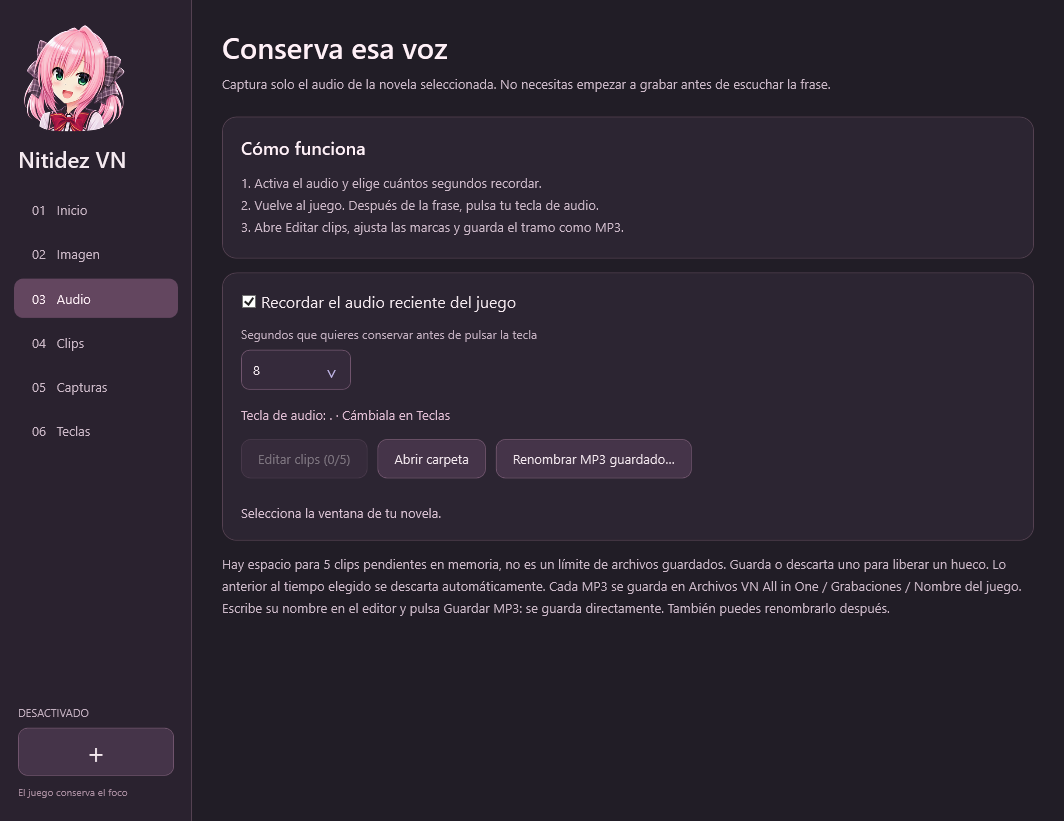
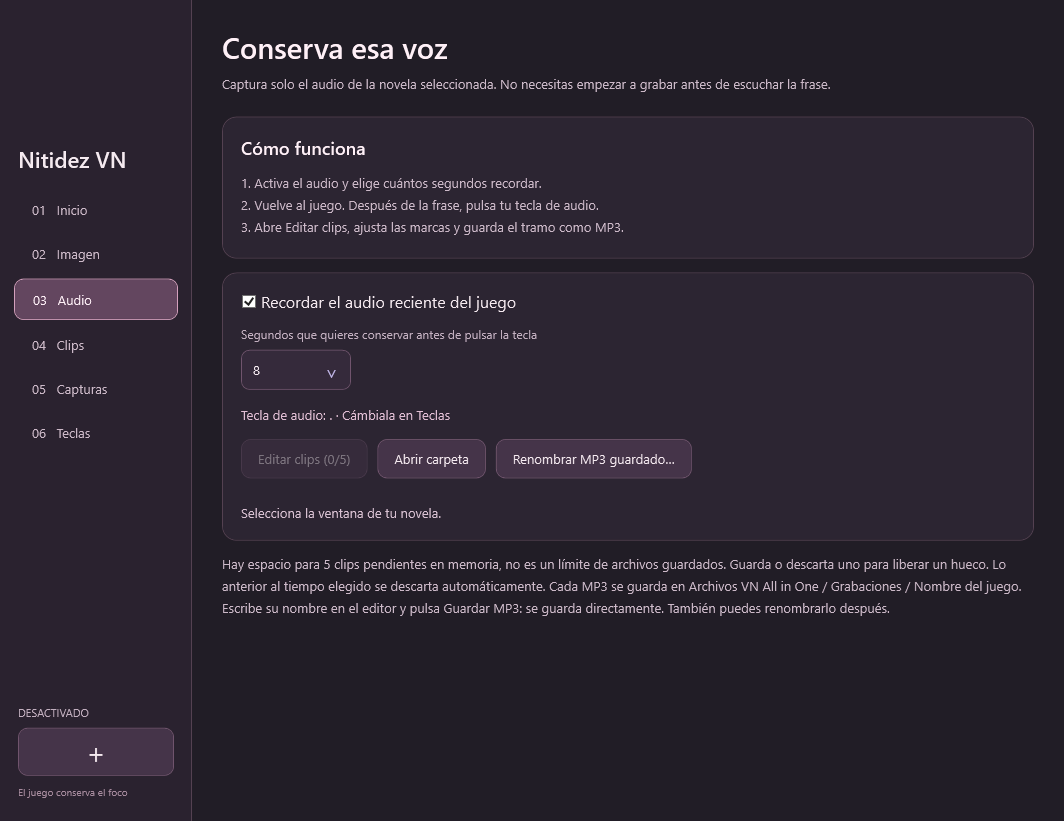
feat(editors): organize trimming and export controls for v4.4
Group audio and clip editing into three steps: select and preview, adjust the range, then name and save. Keep export actions in a dedicated sidebar, separate discard actions, and show the current playback position. Retain direct MP3 saving and per-game folders.

diff --git a/Interfaz.xaml b/Interfaz.xaml
@@ -72,7 +72,7 @@
    <TextBlock Text="Escenas para volver a ver" Style="{StaticResource Title}"/><TextBlock Text="Graba la novela con su audio y con el filtro que tengas al iniciar. Otras ventanas y la caja de Luna no se incluyen." Style="{StaticResource Help}"/>
    <Border Style="{StaticResource Card}"><StackPanel><TextBlock Text="Antes de grabar" Style="{StaticResource Subhead}"/><TextBlock Text="Espera a Captura lista después de conectar el juego. Inicia con tu tecla de clip y termina con la tecla de detener. También puedes usar el botón de abajo." Style="{StaticResource Help}"/><Grid><Grid.ColumnDefinitions><ColumnDefinition Width="*"/><ColumnDefinition Width="14"/><ColumnDefinition Width="*"/></Grid.ColumnDefinitions><StackPanel><TextBlock Text="Resolución máxima" Style="{StaticResource Label}"/><ComboBox x:Name="SceneResolution" AutomationProperties.Name="Resolución máxima del clip"/></StackPanel><StackPanel Grid.Column="2"><TextBlock Text="Fotogramas por segundo" Style="{StaticResource Label}"/><ComboBox x:Name="SceneFps" AutomationProperties.Name="Fotogramas por segundo del MP4"/></StackPanel></Grid><Button x:Name="SceneRecord" Content="Grabar MP4 con filtro" HorizontalAlignment="Left" Margin="0,20,0,0"/><TextBlock x:Name="SceneKeys" TextWrapping="Wrap" Foreground="#E1BED4" Margin="0,16,0,0"/><TextBlock x:Name="SceneStatus" TextWrapping="Wrap" Margin="0,12,0,0" Foreground="#D8C1D2"/></StackPanel></Border>
    <Border Style="{StaticResource Card}"><StackPanel><TextBlock Text="Revisa y recorta" Style="{StaticResource Subhead}"/><TextBlock Text="Abre un MP4, busca el momento, marca inicio y final, escribe el nombre, revisa con ▶ y guarda el recorte. El original se conserva. Si no te gusta un clip, puedes enviarlo a la Papelera desde el editor." Style="{StaticResource Help}"/><WrapPanel><Button x:Name="SceneEdit" Content="Abrir editor de clip…" Margin="0,0,10,10"/><Button x:Name="VideoFolder" Content="Abrir carpeta" Margin="0,0,10,10"/><Button x:Name="SceneRename" Content="Renombrar MP4…" Margin="0,0,0,10"/></WrapPanel></StackPanel></Border>
-   <TextBlock Text="Se guarda la imagen con el filtro, sin reducir la calidad para cumplir un peso. Algunos clips pueden superar 30 MB. Usa Original y 60 FPS para conservar detalle y movimiento. Los MP4 se organizan en Archivos VN All in One / Videos / Nombre del juego. Usa Renombrar MP4 para cambiar un nombre guardado." Style="{StaticResource Help}"/>
+   <TextBlock Text="Se guarda un MP4 compatible, con el filtro aplicado y sin límite de peso. La captura empieza al pulsar; el archivo se prepara en segundo plano. Usa 60 FPS para escenas con movimiento. Los MP4 se organizan en Archivos VN All in One / Videos / Nombre del juego. Usa Renombrar MP4 para cambiar un nombre guardado." Style="{StaticResource Help}"/>
   </StackPanel></TabItem>
   <TabItem Header="05   Capturas"><StackPanel><TextBlock Text="Guarda el instante" Style="{StaticResource Title}"/><TextBlock Text="Toma una imagen PNG de la novela con tu nitidez y color actuales. La captura mantiene la proporción del juego y no incluye los controles de Nitidez." Style="{StaticResource Help}"/><Border Style="{StaticResource Card}"><StackPanel><TextBlock Text="Una tecla, una imagen" Style="{StaticResource Subhead}"/><TextBlock Text="Conecta el juego en Inicio y espera a Captura lista. Al jugar, pulsa la tecla de captura; el PNG se guarda después de tomar la imagen, sin interrumpir la partida. También puedes usar este botón." Style="{StaticResource Help}"/><WrapPanel><Button x:Name="SceneScreenshot" Content="Tomar captura PNG" Margin="0,0,10,10"/><Button x:Name="ScreenshotFolder" Content="Abrir carpeta" Margin="0,0,0,10"/></WrapPanel><TextBlock x:Name="ScreenshotKeys" TextWrapping="Wrap" Foreground="#E1BED4" Margin="0,16,0,0"/><TextBlock x:Name="ScreenshotStatus" TextWrapping="Wrap" Margin="0,12,0,0" Foreground="#D8C1D2"/></StackPanel></Border><TextBlock Text="Los PNG se organizan en Archivos VN All in One / Capturas / Nombre del juego, con nombres como Wagamama_01.png y Wagamama_02.png. Las imágenes conservan su resolución original. El cursor de Windows no se incluye; un cursor dibujado por el propio juego puede aparecer." Style="{StaticResource Help}"/></StackPanel></TabItem>
   <TabItem Header="06   Teclas"><StackPanel><TextBlock Text="Tus propios atajos" Style="{StaticResource Title}"/><TextBlock Text="Haz clic en un campo y pulsa la tecla o combinación que quieras, por ejemplo Ctrl + F6. Puedes usar Ctrl, Alt o Shift. Las combinaciones repetidas se rechazan." Style="{StaticResource Help}"/>

diff --git a/SceneControls.cs b/SceneControls.cs
@@ -235,6 +235,7 @@ sealed class SceneEditor : Window {
     readonly MediaElement media = new MediaElement { LoadedBehavior = MediaState.Manual,
         UnloadedBehavior = MediaState.Close, ScrubbingEnabled = true, Stretch = Stretch.Uniform };
     readonly Slider position = new Slider(), start = new Slider(), end = new Slider();
+    readonly TextBlock positionTime=new TextBlock{Margin=new Thickness(0,0,0,10)};
     readonly TextBlock trimInfo = new TextBlock(), status = new TextBlock { TextWrapping = TextWrapping.Wrap };
     readonly Button play = new Button { Content = "▶", ToolTip = "Reproducir tramo", FontSize = 18 },
         stop = new Button { Content = "■", ToolTip = "Detener", FontSize = 18 },
@@ -253,28 +254,20 @@ sealed class SceneEditor : Window {
     public SceneEditor(Window owner, ResourceDictionary style, string source,string game=null) {
         Owner = owner; this.source = source; Resources.MergedDictionaries.Add(style);
         outputFolder=CaptureFiles.Inside(source,SceneFiles.Videos)?Path.GetDirectoryName(source):CaptureFiles.Folder("Videos",game??"Otros");
-        Title = "Nitidez VN · Recortar clip"; Width = 760;
-        Height = Math.Min(720, SystemParameters.WorkArea.Height - 25);
-        MinWidth = 520; MinHeight = 460; WindowStartupLocation = WindowStartupLocation.CenterOwner;
+        Title = "Nitidez VN · Editar clip"; Width = Math.Min(1120,SystemParameters.WorkArea.Width-30);
+        Height = Math.Min(860, SystemParameters.WorkArea.Height - 25);
+        MinWidth = 940; MinHeight = 680; WindowStartupLocation = WindowStartupLocation.CenterOwner;
         Background = new SolidColorBrush(Color.FromRgb(33,29,38)); Foreground = Brushes.White;
-        var root = new DockPanel { Margin = new Thickness(18) };
-        Content = root;
-        var title = new TextBlock { Text = Path.GetFileName(source), FontSize = 17, Margin = new Thickness(0, 0, 0, 8) };
-        DockPanel.SetDock(title, Dock.Top); root.Children.Add(title);
-        var controls = new StackPanel();
-        DockPanel.SetDock(controls, Dock.Bottom); root.Children.Add(controls);
-        controls.Children.Add(new TextBlock { Text = "Posición de vista previa", Margin = new Thickness(0, 8, 0, 0) });
-        controls.Children.Add(position);
-        controls.Children.Add(trimInfo);
-        controls.Children.Add(new TextBlock { Text = "Inicio del recorte" }); controls.Children.Add(start);
-        controls.Children.Add(new TextBlock { Text = "Final del recorte" }); controls.Children.Add(end);
-        controls.Children.Add(new TextBlock{Text="Nombre del clip que vas a guardar (sin .mp4)",Margin=new Thickness(0,8,0,0)});
-        fileName.Text="Recorte_"+DateTime.Now.ToString("yyyy-MM-dd_HH-mm-ss");controls.Children.Add(fileName);
-        var actions = new WrapPanel { Margin = new Thickness(0, 8, 0, 8) };
-        foreach (var button in new[] { play, stop, markStart, markEnd, save, recycle, folderButton }) { button.Margin = new Thickness(0, 0, 8, 4); actions.Children.Add(button); }
-        controls.Children.Add(actions); controls.Children.Add(status);
-        root.Children.Add(new Border { Background = Brushes.Black, Child = media });
-
+        StackPanel main,side;EditorLayout.Shell(this,"Editar clip",Path.GetFileName(source),out main,out side);
+        var preview=EditorLayout.Card(main,"1. Busca el momento");preview.Children.Add(new Border{Background=Brushes.Black,Height=200,Child=media,CornerRadius=new CornerRadius(6),Margin=new Thickness(0,0,0,12)});
+        preview.Children.Add(EditorLayout.Note("Mueve la barra para buscar el inicio o el final de la escena."));preview.Children.Add(position);preview.Children.Add(positionTime);
+        play.Content="▶ Ver selección";stop.Content="■ Detener";EditorLayout.Buttons(preview,play,stop);
+        var trim=EditorLayout.Card(main,"2. Elige qué conservar");
+        EditorLayout.Range(trim,new TextBlock{Text="Inicio"},start,new TextBlock{Text="Final"},end,markStart,markEnd);trimInfo.Margin=new Thickness(0,12,0,0);trimInfo.TextWrapping=TextWrapping.Wrap;trim.Children.Add(trimInfo);
+        var output=EditorLayout.Card(side,"3. Guarda el recorte");output.Children.Add(EditorLayout.Note("Nombre del nuevo archivo, sin .mp4. El clip original se conserva."));fileName.Text="Recorte_"+DateTime.Now.ToString("yyyy-MM-dd_HH-mm-ss");output.Children.Add(fileName);EditorLayout.SaveButton(save);output.Children.Add(save);folderButton.Margin=new Thickness(0,0,0,14);output.Children.Add(folderButton);output.Children.Add(EditorLayout.Note("Se guarda en la carpeta del juego, sin límite de peso."));
+        var message=EditorLayout.Card(side,"Estado");message.Children.Add(status);
+        recycle.Content="Enviar original a la Papelera";recycle.Margin=new Thickness(0,0,0,10);side.Children.Add(recycle);
+        side.Children.Add(EditorLayout.Note("Esta opción retira el clip que abriste. Guardar un recorte crea otro archivo."));
         timer = new DispatcherTimer { Interval = TimeSpan.FromMilliseconds(40) };
         timer.Tick += delegate {
             if (media.Position.TotalSeconds >= end.Value) { Pause(); Seek(end.Value); }
@@ -297,7 +290,7 @@ sealed class SceneEditor : Window {
             ready = false; Pause(); status.Text = "No se pudo reproducir el clip: " + e.ErrorException.Message; UpdateControls();
         };
         media.MediaEnded += delegate { Pause(); Seek(end.Value); };
-        position.ValueChanged += delegate { if (ready && !updating) { Pause(); media.Position = TimeSpan.FromSeconds(position.Value); } };
+        position.ValueChanged += delegate { if (ready && !updating) { Pause(); media.Position = TimeSpan.FromSeconds(position.Value);positionTime.Text=String.Format("Posición {0:F2} s / {1:F2} s",position.Value,end.Maximum); } };
         start.ValueChanged += delegate { Adjust(true); };
         end.ValueChanged += delegate { Adjust(false); };
         play.Click += delegate { if (playing) Pause(); else { Seek(start.Value); media.Play(); playing = true; timer.Start(); } };
@@ -329,7 +322,7 @@ sealed class SceneEditor : Window {
     }
 
     void SetPosition(double seconds) {
-        updating = true; position.Value = seconds; updating = false;
+        updating = true; position.Value = seconds; updating = false;positionTime.Text=String.Format("Posición {0:F2} s / {1:F2} s",seconds,end.Maximum);
     }
     void Seek(double seconds) { if (ready) { media.Position = TimeSpan.FromSeconds(seconds); SetPosition(seconds); } }
     void Pause() { timer.Stop(); media.Pause(); playing = false; }

diff --git a/AudioClips.cs b/AudioClips.cs
@@ -221,26 +221,21 @@ sealed class ClipEditor : Window {
     public ClipEditor(Window owner, ResourceDictionary style, ObservableCollection<AudioClip> clips) {
         Owner = owner; this.clips = clips;
         Resources.MergedDictionaries.Add(style);
-        Title = "Nitidez VN · Clips de audio"; Width = 740; MinWidth = 610; SizeToContent = SizeToContent.Height;
+        Title = "Nitidez VN · Editar audio"; Width = Math.Min(1060,SystemParameters.WorkArea.Width-30); Height=Math.Min(820,SystemParameters.WorkArea.Height-30);MinWidth = 900;MinHeight=620;
         ResizeMode = ResizeMode.CanResize; WindowStartupLocation = WindowStartupLocation.CenterOwner;
         Background = new SolidColorBrush(Color.FromRgb(33,29,38)); Foreground = Brushes.White;
-        var root = new StackPanel { Margin = new Thickness(22) };
-        Content = root;
-        root.Children.Add(new TextBlock { Text = "Recorta tu clip", FontSize = 24, Margin = new Thickness(0,0,0,12) });
-        list.ItemsSource = clips; root.Children.Add(list);
-        root.Children.Add(new TextBlock { Text = "Arrastra las marcas de inicio y final sobre la onda.", Margin = new Thickness(0,12,0,0) });
-        root.Children.Add(wave);
-        root.Children.Add(startText); root.Children.Add(start);
-        root.Children.Add(endText); root.Children.Add(end);
-        root.Children.Add(new TextBlock{Text="Nombre del audio (sin .mp3)",Margin=new Thickness(0,12,0,0)});root.Children.Add(fileName);
+        StackPanel main,side;EditorLayout.Shell(this,"Editar audio","Escoge una frase, ajusta el tramo y guárdalo con el nombre que quieras.",out main,out side);
+        var choose=EditorLayout.Card(main,"1. Elige y escucha");
+        list.ItemsSource=clips;choose.Children.Add(list);wave.Height=160;choose.Children.Add(wave);
+        play.Content="▶ Escuchar";play.Width=Double.NaN;stop.Content="■ Detener";stop.Width=Double.NaN;EditorLayout.Buttons(choose,play,stop);choose.Children.Add(playbackTime);
+        var trim=EditorLayout.Card(main,"2. Ajusta el tramo");trim.Children.Add(EditorLayout.Note("Arrastra la marca verde para el inicio y la naranja para el final. También puedes usar estos controles."));
+        EditorLayout.Range(trim,startText,start,endText,end);
+        var output=EditorLayout.Card(side,"3. Guarda el audio");output.Children.Add(EditorLayout.Note("Nombre del archivo, sin .mp3. Se guarda directamente en la carpeta de este juego."));output.Children.Add(fileName);EditorLayout.SaveButton(save);output.Children.Add(save);folderButton.Margin=new Thickness(0,0,0,14);output.Children.Add(folderButton);
+        output.Children.Add(EditorLayout.Note("Si ya existe ese nombre, se añade un número para conservar ambos archivos."));
+        var message=EditorLayout.Card(side,"Estado");message.Children.Add(status);
+        discard.Content="Descartar este audio";discard.Margin=new Thickness(0,0,0,8);side.Children.Add(discard);
+        side.Children.Add(EditorLayout.Note("Descartar libera el audio pendiente. No borra los MP3 que ya guardaste."));
         fileName.TextChanged+=delegate{if(!updating&&Current!=null)Current.FileName=fileName.Text;};
-        var actions = new WrapPanel { Margin = new Thickness(0,10,0,10) };
-        foreach (var button in new[] { play, stop, save, discard, folderButton }) {
-            button.Margin = new Thickness(0,0,8,6);
-            actions.Children.Add(button);
-        }
-        actions.Children.Add(playbackTime);
-        root.Children.Add(actions); root.Children.Add(status);
         System.Windows.Automation.AutomationProperties.SetName(play, "Reproducir tramo seleccionado");
         System.Windows.Automation.AutomationProperties.SetName(stop, "Detener reproducción");
         list.SelectionChanged += delegate { SelectClip(); };

diff --git a/EditorLayout.cs b/EditorLayout.cs
@@ -1,0 +1,31 @@
+using System;
+using System.Windows;
+using System.Windows.Controls;
+using System.Windows.Media;
+
+static class EditorLayout {
+    static Brush Brush(string color){return (Brush)new BrushConverter().ConvertFromString(color);}
+    public static TextBlock Note(string text){return new TextBlock{Text=text,TextWrapping=TextWrapping.Wrap,Foreground=Brush("#C8B6C4"),LineHeight=21,Margin=new Thickness(0,0,0,12)};}
+    public static StackPanel Card(StackPanel parent,string heading){
+        var body=new StackPanel();
+        body.Children.Add(new TextBlock{Text=heading,FontSize=17,FontWeight=FontWeights.SemiBold,Margin=new Thickness(0,0,0,14)});
+        parent.Children.Add(new Border{Child=body,Background=Brush("#2C2532"),BorderBrush=Brush("#544151"),BorderThickness=new Thickness(1),CornerRadius=new CornerRadius(12),Padding=new Thickness(18),Margin=new Thickness(0,0,0,14)});
+        return body;
+    }
+    public static void Shell(Window window,string heading,string instruction,out StackPanel main,out StackPanel side){
+        window.FontFamily=new FontFamily("Segoe UI");window.FontSize=13;
+        var root=new Grid{Margin=new Thickness(24),Background=window.Background};root.RowDefinitions.Add(new RowDefinition{Height=GridLength.Auto});root.RowDefinitions.Add(new RowDefinition());
+        root.ColumnDefinitions.Add(new ColumnDefinition());root.ColumnDefinitions.Add(new ColumnDefinition{Width=new GridLength(20)});root.ColumnDefinitions.Add(new ColumnDefinition{Width=new GridLength(296)});
+        var title=new StackPanel();title.Children.Add(new TextBlock{Text=heading,FontSize=27,FontWeight=FontWeights.SemiBold,Margin=new Thickness(0,0,0,6)});title.Children.Add(Note(instruction));Grid.SetColumnSpan(title,3);root.Children.Add(title);
+        main=new StackPanel();side=new StackPanel();
+        var left=new ScrollViewer{Content=main,VerticalScrollBarVisibility=ScrollBarVisibility.Auto,HorizontalScrollBarVisibility=ScrollBarVisibility.Disabled};Grid.SetRow(left,1);root.Children.Add(left);
+        var right=new ScrollViewer{Content=side,VerticalScrollBarVisibility=ScrollBarVisibility.Auto,HorizontalScrollBarVisibility=ScrollBarVisibility.Disabled};Grid.SetRow(right,1);Grid.SetColumn(right,2);root.Children.Add(right);window.Content=root;
+    }
+    public static void Range(StackPanel parent,TextBlock firstLabel,Slider first,TextBlock lastLabel,Slider last,Button markFirst=null,Button markLast=null){
+        var row=new Grid();row.ColumnDefinitions.Add(new ColumnDefinition());row.ColumnDefinitions.Add(new ColumnDefinition{Width=new GridLength(20)});row.ColumnDefinitions.Add(new ColumnDefinition());
+        var left=new StackPanel();left.Children.Add(firstLabel);left.Children.Add(first);if(markFirst!=null){markFirst.Margin=new Thickness(0,8,0,0);left.Children.Add(markFirst);}row.Children.Add(left);
+        var right=new StackPanel();right.Children.Add(lastLabel);right.Children.Add(last);if(markLast!=null){markLast.Margin=new Thickness(0,8,0,0);right.Children.Add(markLast);}Grid.SetColumn(right,2);row.Children.Add(right);parent.Children.Add(row);
+    }
+    public static void Buttons(StackPanel parent,params Button[] buttons){var row=new WrapPanel();foreach(var button in buttons){button.Margin=new Thickness(0,0,8,8);row.Children.Add(button);}parent.Children.Add(row);}
+    public static void SaveButton(Button button){button.Background=Brush("#B88FA8");button.Foreground=Brush("#211B25");button.FontWeight=FontWeights.SemiBold;button.Margin=new Thickness(0,8,0,10);button.HorizontalAlignment=HorizontalAlignment.Stretch;}
+}

diff --git a/NitidezVN.cs b/NitidezVN.cs
@@ -14,9 +14,9 @@ using System.Windows.Threading;
 using SD = System.Drawing;
 using WF = System.Windows.Forms;
 
-[assembly: System.Reflection.AssemblyTitle("Nitidez VN 4.3")]
-[assembly: System.Reflection.AssemblyVersion("4.3.0.0")]
-[assembly: System.Reflection.AssemblyFileVersion("4.3.0.0")]
+[assembly: System.Reflection.AssemblyTitle("Nitidez VN 4.4")]
+[assembly: System.Reflection.AssemblyVersion("4.4.0.0")]
+[assembly: System.Reflection.AssemblyFileVersion("4.4.0.0")]
 
 static class Native {
     [StructLayout(LayoutKind.Sequential)] public struct RECT { public int L,T,R,B; }
@@ -204,7 +204,7 @@ class ControlWindow : Window {
     SD.Rectangle displayBounds;
     string logPath=Path.Combine(AppDomain.CurrentDomain.BaseDirectory,"sesion.log");
     public ControlWindow() {
-        Title="Nitidez VN 4.3 — controles"; Width=Math.Min(1080,SystemParameters.WorkArea.Width-35); Height=Math.Min(860,SystemParameters.WorkArea.Height-35);MinWidth=880;MinHeight=620;Background=new SolidColorBrush(Color.FromRgb(33,29,38));Foreground=Brushes.White;FontFamily=new FontFamily("Segoe UI");FontSize=13;WindowStartupLocation=WindowStartupLocation.CenterScreen;
+        Title="Nitidez VN 4.4 — controles"; Width=Math.Min(1080,SystemParameters.WorkArea.Width-35); Height=Math.Min(860,SystemParameters.WorkArea.Height-35);MinWidth=880;MinHeight=620;Background=new SolidColorBrush(Color.FromRgb(33,29,38));Foreground=Brushes.White;FontFamily=new FontFamily("Segoe UI");FontSize=13;WindowStartupLocation=WindowStartupLocation.CenterScreen;
         using(var x=System.Reflection.Assembly.GetExecutingAssembly().GetManifestResourceStream("Interfaz.xaml"))ui=(FrameworkElement)System.Windows.Markup.XamlReader.Load(x);Content=ui;
         var sections=(TabControl)ui.FindName("Sections");
         sections.SelectionChanged+=delegate(object sender,SelectionChangedEventArgs e){if(e.OriginalSource==sections)Dispatcher.BeginInvoke(new Action(delegate{var scroll=sections.Template.FindName("PanelScroller",sections) as ScrollViewer;if(scroll!=null)scroll.ScrollToTop();}),DispatcherPriority.Loaded);};
@@ -257,7 +257,7 @@ class ControlWindow : Window {
         Loaded+=delegate {
             try{CaptureFiles.Initialize();}catch(Exception ex){Log("Carpetas de archivos: "+ex.Message);}
             RefreshWindows();
-            Log("Inicio v4.3 (captura nueva y clips sin pérdida). Windows="+Environment.OSVersion+" GPU WPF tier="+(RenderCapability.Tier>>16));
+            Log("Inicio v4.4 (captura preparada y clips compatibles). Windows="+Environment.OSVersion+" GPU WPF tier="+(RenderCapability.Tier>>16));
             if(rememberedExe.Length!=0){restoreTargetTimer.Start();RestoreTarget();}
             Dispatcher.BeginInvoke(new Action(SaveUiPreview),DispatcherPriority.ApplicationIdle);
         };

diff --git a/pruebas/EditorSaveProbe.cs b/pruebas/EditorSaveProbe.cs
@@ -14,7 +14,7 @@ static class EditorSaveProbe {
     static object Field(object value,string name){return value.GetType().GetField(name,Private).GetValue(value);}
     static void Pump(){var frame=new DispatcherFrame();var timer=new DispatcherTimer{Interval=TimeSpan.FromMilliseconds(20)};timer.Tick+=delegate{timer.Stop();frame.Continue=false;};timer.Start();Dispatcher.PushFrame(frame);}
     static void Await(Task task){var clock=System.Diagnostics.Stopwatch.StartNew();while(!task.IsCompleted&&clock.ElapsedMilliseconds<20000)Pump();if(!task.IsCompleted)throw new Exception("El guardado no terminó automáticamente.");task.GetAwaiter().GetResult();}
-    static void Render(Window window,string file){window.UpdateLayout();var view=(FrameworkElement)window.Content;var bitmap=new RenderTargetBitmap((int)view.ActualWidth,(int)view.ActualHeight,96,96,PixelFormats.Pbgra32);bitmap.Render(view);var png=new PngBitmapEncoder();png.Frames.Add(BitmapFrame.Create(bitmap));using(var output=File.Create(file))png.Save(output);}
+    static void Render(Window window,string file){window.UpdateLayout();var bitmap=new RenderTargetBitmap((int)window.ActualWidth,(int)window.ActualHeight,96,96,PixelFormats.Pbgra32);bitmap.Render(window);var png=new PngBitmapEncoder();png.Frames.Add(BitmapFrame.Create(bitmap));using(var output=File.Create(file))png.Save(output);}
     [STAThread] static int Main(string[] args){
         new Application{ShutdownMode=ShutdownMode.OnExplicitShutdown};
         System.Threading.SynchronizationContext.SetSynchronizationContext(new DispatcherSynchronizationContext(Dispatcher.CurrentDispatcher));

diff --git a/pruebas/SceneProbe.cs b/pruebas/SceneProbe.cs
@@ -79,7 +79,7 @@ static class SceneProbe {
                 }
                 Console.WriteLine("PASS: 3 cambios de diálogo tras periodos inactivos, sin fotogramas antiguos; cursor de Windows excluido al crear la sesión.");
                 scene.Background=new SolidColorBrush(Color.FromRgb(64,80,128));await Task.Delay(50);
-                int limit = 0;
+                int limit = motion?1080:720;
                 int fps = args.Length > 2 && args[2] == "30" ? 30 : 60;
                 string source = SceneFiles.Source(hwnd, limit, 60);
                 string png = SceneFiles.Output(folder, "Captura", ".png");
@@ -109,7 +109,7 @@ static class SceneProbe {
                     player.Load(); player.PlayLooping();
                     var capture = prepared.Start(audio,look,SceneFiles.Output(folder, "Video", ".mp4"),limit,fps);
                     while (!capture.HasFrames && !capture.Result.IsCompleted) await Task.Delay(50);
-                    Console.WriteLine("Primer fotograma conservado: {0:F1} ms", capture.Elapsed.TotalMilliseconds);
+                    Console.WriteLine("Primer fotograma conservado: {0:F1} ms", capture.FirstFrameMilliseconds);
                     await Task.Delay(550);
                     foreach (var p in Process.GetProcessesByName("ffmpeg")) using (p) {
                         if (!before.Contains(p.Id) && !p.HasExited)
